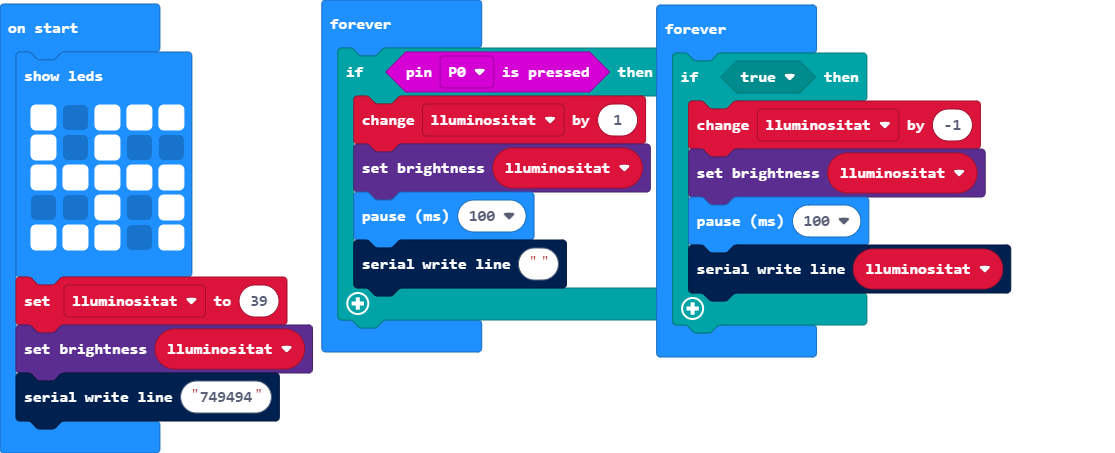
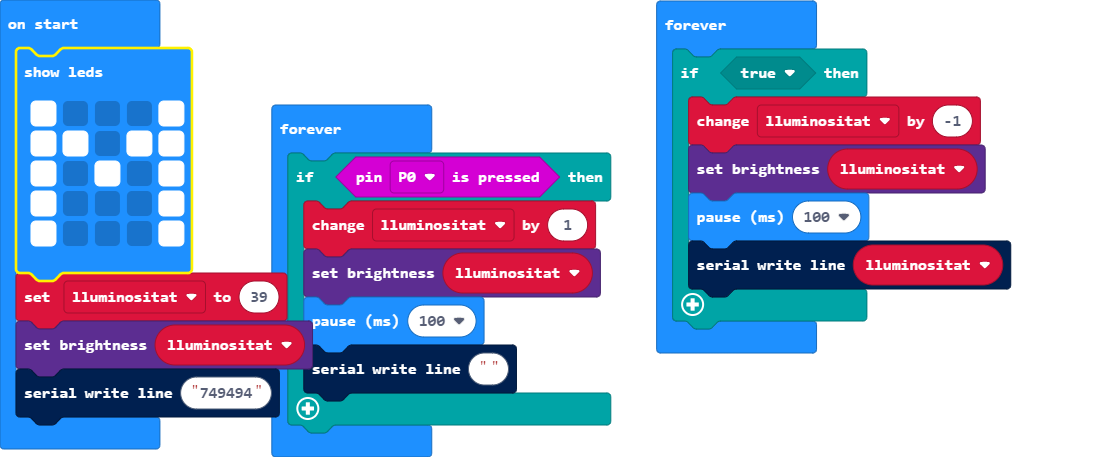
Update main.blocks, main.ts

diff --git a/main.ts b/main.ts
@@ -1,26 +1,26 @@
 basic.showLeds(`
-    # . # # #
-    # . # . .
-    # # # # #
-    . . # . #
-    # # # . #
+    # . . . #
+    # # . # #
+    # . # . #
+    # . . . #
+    # . . . #
     `)
 let lluminositat = 39
 led.setBrightness(lluminositat)
 serial.writeLine("749494")
-basic.forever(function () {
-    if (input.pinIsPressed(TouchPin.P0)) {
-        lluminositat += 1
-        led.setBrightness(lluminositat)
-        basic.pause(100)
-        serial.writeLine("")
-    }
-})
 basic.forever(function () {
     if (true) {
         lluminositat += -1
         led.setBrightness(lluminositat)
         basic.pause(100)
         serial.writeLine("" + (lluminositat))
+    }
+})
+basic.forever(function () {
+    if (input.pinIsPressed(TouchPin.P0)) {
+        lluminositat += 1
+        led.setBrightness(lluminositat)
+        basic.pause(100)
+        serial.writeLine("")
     }
 })
